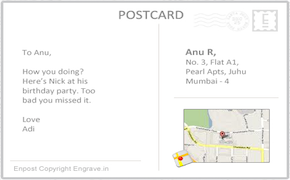
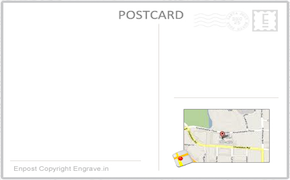
Did some changes but still incomplete

diff --git a/Resources/app/ui/CreateCard/preview.js b/Resources/app/ui/CreateCard/preview.js
@@ -19,8 +19,8 @@ function Preview() {"use strict";
     
 	this.previewLabel = Ti.UI.createLabel(Styles.previewLabel);
 	
-	this.postCardView = Ti.UI.createView(Styles.postCardView);
-	this.postCardView.backgroundImage='/app/assets/postaddress.png';
+	this.postCardView = Ti.UI.createImageView(Styles.postCardView);
+	this.postCardView.image='/app/assets/postaddress.png';
 	
 	this.flipView = Ti.UI.createView(Styles.flipView);
 	this.flipText = Ti.UI.createLabel(Styles.flipText);
@@ -31,6 +31,23 @@ function Preview() {"use strict";
 	this.addMapView.top = '50%';
 	//this.addMapView.touchEnabled = 'false';
 	
+	this.messageLabel=Ti.UI.createLabel({
+		top:10,
+		left:5,
+		height:'200dp',
+		width:'140dp',
+		font:{
+			fontSize:12
+		},
+		color:'black',
+		backgroundColor:'red'
+	});
+	
+	if(APP.message){
+		this.messageLabel.text=APP.message;
+	}
+	
+	this.postCardView.add(this.messageLabel);
 	this.postCardView.add(this.addMapView);
 	
 	//below 2 views are clickable to enable flipping between image and msg views
@@ -39,11 +56,13 @@ function Preview() {"use strict";
 	
 	//display the image preview of the postcard
 	this.previewImage.addEventListener('click',function(){
+		self.postCardView.image=APP.image;
 		alert('previewimage clicked');
 	})
 	
 	//display the message preview of the postcard
 	this.previewMsgAddr.addEventListener('click',function(){
+		self.postCardView.image='/app/assets/postaddress.png';
 		alert('previewmsgaddr clicked');
 	})
 	

diff --git a/Resources/app/ui/CreateCard/styles.js b/Resources/app/ui/CreateCard/styles.js
@@ -67,7 +67,6 @@ var Styles = {
 		text : 'Write Message'
 	},
 	postCardView : {
-		backgroundImage : '/app/assets/postcard.png',
 		width : Ti.Platform.osname==='android'?'90.62%':290,
 		height : Ti.Platform.osname==='android'?'50%':180,
 		top : 10
@@ -207,6 +206,7 @@ var Styles = {
 		borderColor : 'blue',
 		width : Ti.Platform.osname==='android'?'100%':290,
 		height : Ti.Platform.osname==='android'?'90%':180,
+		suppressReturn:false
 	},
 	
 	//nextbutton for the addMessage.js page
@@ -219,18 +219,18 @@ var Styles = {
 	
 	//preview image
 	previewImage : {
-		width : Ti.Platform.osname==='android'?'40%':220,
-		height : Ti.Platform.osname==='android'?'100%':30,
-		top : Ti.Platform.osname==='android'?'8%':30,
-		left : Ti.Platform.osname==='android'?'60%':0,
+		width : '40%',
+		height : '100%',
+		top : Ti.Platform.osname==='android'?'8%':0,
+		left : '60%'
 	},
 	
 	//preview message and address view
 	previewMsgAddr : {
-		width : Ti.Platform.osname==='android'?'40%':220,
-		height : Ti.Platform.osname==='android'?'100%':30,
-		top : Ti.Platform.osname==='android'?'8%':30,
-		left : Ti.Platform.osname==='android'?0:0,
+		width : '40%',
+		height : '100%',
+		top : Ti.Platform.osname==='android'?'8%':0,
+		left : 0
 	}
 };
 

diff --git a/Resources/app/controllers/AddMessageController.js b/Resources/app/controllers/AddMessageController.js
@@ -5,21 +5,21 @@ var UI = require('app/ui/CreateCard/addMessage');
  * Login controller module
  * @constructor
  */
-function AddMessageController() {
-    "use strict";
-    var self = this;
-    // Obligatory 'this' reference
-    /**
-     * The UI object for this controller
-     * @type {Object}
-     */
-    this.UI = new UI();
-	this.UI.nextButton.addEventListener('click',function(){
-				APP.navigationObserver(APP.Constants.CreateCardController,APP.Constants.WriteMsgView);
-			});
-	APP.header.signInButton.visible=false;
-	APP.header.backButton.visible=true;
-	APP.tabBar.tabBarView.visible=false;
+function AddMessageController() {"use strict";
+	var self = this;
+	// Obligatory 'this' reference
+	/**
+	 * The UI object for this controller
+	 * @type {Object}
+	 */
+	this.UI = new UI();
+	this.UI.nextButton.addEventListener('click', function() {
+		APP.message = self.UI.messageTextArea.value;
+		APP.navigationObserver(APP.Constants.CreateCardController, APP.Constants.WriteMsgView);
+	});
+	APP.header.signInButton.visible = false;
+	APP.header.backButton.visible = true;
+	APP.tabBar.tabBarView.visible = false;
 
 }
 
